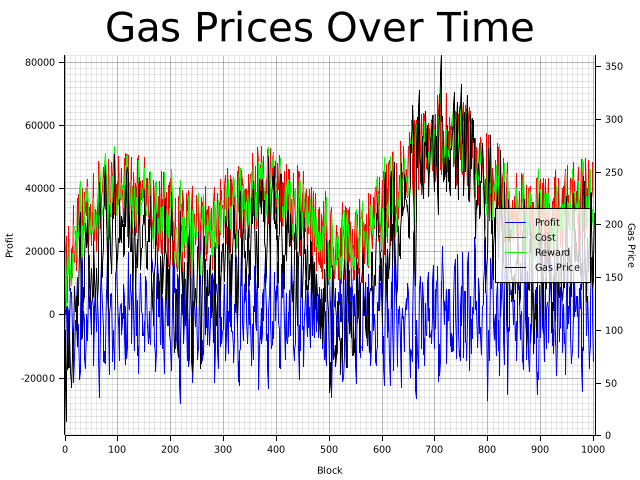
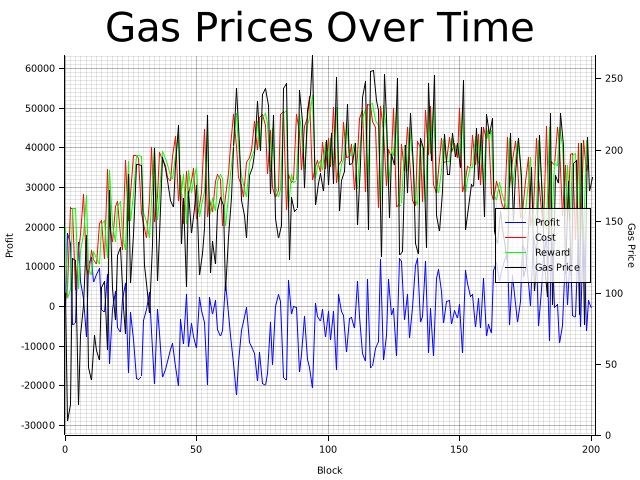
Tune some

diff --git a/crates/gas_price_testground/src/main.rs b/crates/gas_price_testground/src/main.rs
@@ -33,28 +33,13 @@ impl Algorithm {
         self.calculate_profit_slope(new_profit);
         let avg_profit = *self.moving_average_profit.borrow();
         let slope = *self.profit_slope.borrow();
-        // let maybe_new_gas_price = if avg_profit.is_negative() {
-        //     let p_comp = avg_profit.abs() / self.p_value_factor;
-        //     let d_comp = *self.profit_slope.borrow() / self.d_value_factor;
-        //     let add = p_comp - d_comp;
-        //     old_gas_price + add as u64
-        // } else {
-        //     if used > capacity / 2 {
-        //         todo!();
-        //     } else if avg_profit.is_positive() {
-        //         let p_comp = avg_profit / self.p_value_factor;
-        //         let d_comp = *self.profit_slope.borrow() / self.d_value_factor;
-        //         let sub = p_comp - d_comp;
-        //         max(old_gas_price.saturating_sub(sub as u64), self.min)
-        //     } else {
-        //         old_gas_price
-        //     }
-        // };
-        // max(maybe_new_gas_price, self.min)
+
+        // if p > 0 and dp/db > 0, decrease
+        // if p < 0 and dp/db < 0, increase
         let p_comp = avg_profit / self.p_value_factor;
         let d_comp = slope / self.d_value_factor;
-        let add = p_comp + d_comp;
-        let new_gas_price = old_gas_price as i32 - add;
+        let sub = p_comp + d_comp;
+        let new_gas_price = old_gas_price as i32 - sub;
         max(new_gas_price as u64, self.min)
     }
 
@@ -100,9 +85,9 @@ fn arb_cost_signal(size: u32) -> Vec<u64> {
 fn main() {
     let amount = 1;
     let min = 10;
-    let p_value_factor = 1_000;
-    let d_value_factor = 500;
-    let moving_average_window = 1;
+    let p_value_factor = 5_000;
+    let d_value_factor = 200;
+    let moving_average_window = 10;
     let algo = Algorithm {
         amount,
         min,
@@ -115,7 +100,7 @@ fn main() {
     };
 
     let gas_spent = 200;
-    let simulation_size = 1000;
+    let simulation_size = 200;
 
     // Run simulation
     let da_recording_cost = arb_cost_signal(simulation_size);
